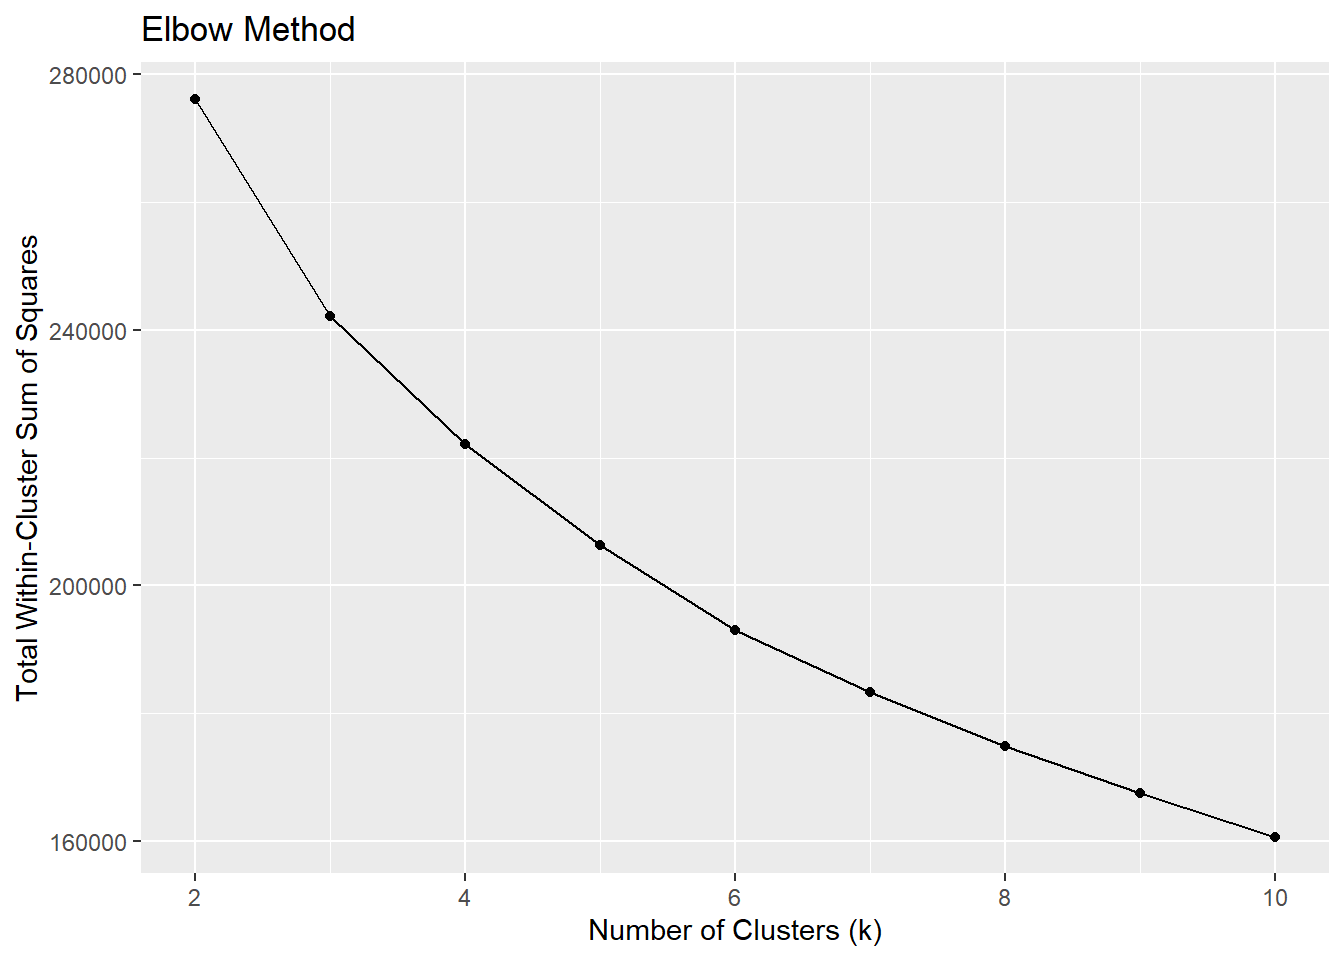
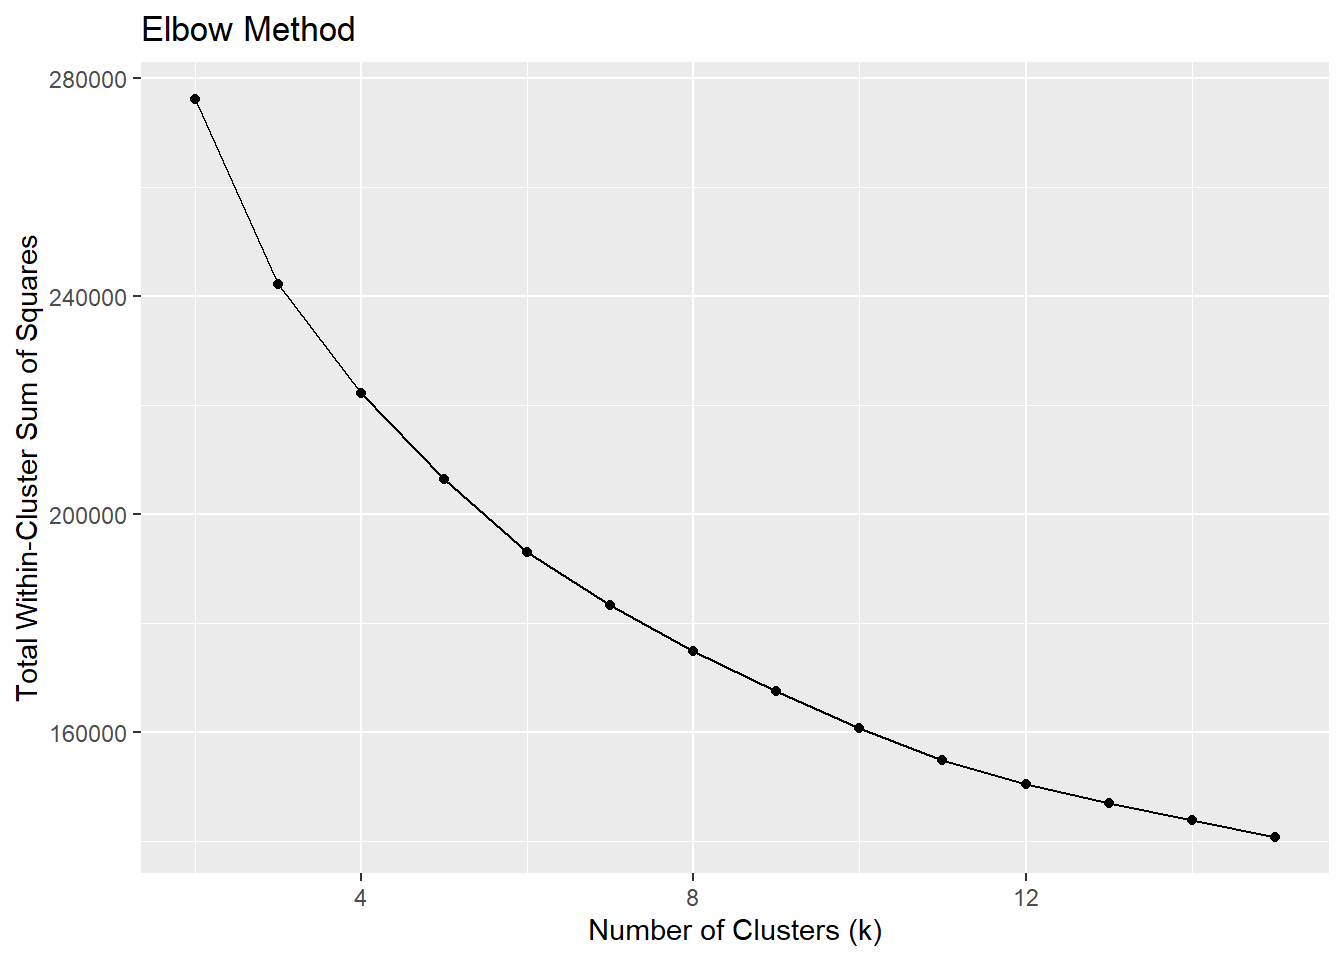
take home ex2 - The Elbow Method chart

diff --git a/docs/Take-Home_Exercise/Take-Home_Exercise02/TE02.html b/docs/Take-Home_Exercise/Take-Home_Exercise02/TE02.html
@@ -302,7 +302,7 @@ pre > code.sourceCode > span > a:first-child::before { text-decoration: underlin
     <div>
     <div class="quarto-title-meta-heading">Modified</div>
     <div class="quarto-title-meta-contents">
-      <p class="date-modified">February 28, 2026</p>
+      <p class="date-modified">March 1, 2026</p>
     </div>
   </div>
     
@@ -679,12 +679,12 @@ $ customer_lifetime_value    &lt;dbl&gt; 312414808, 167022286, 19403711, 3597810
 <div class="cell">
 <div class="code-copy-outer-scaffold"><div class="sourceCode cell-code" id="cb19"><pre class="sourceCode r code-with-copy"><code class="sourceCode r"><span id="cb19-1"><a href="#cb19-1" aria-hidden="true" tabindex="-1"></a><span class="fu">set.seed</span>(<span class="dv">2022</span>)</span>
 <span id="cb19-2"><a href="#cb19-2" aria-hidden="true" tabindex="-1"></a></span>
-<span id="cb19-3"><a href="#cb19-3" aria-hidden="true" tabindex="-1"></a>wss <span class="ot">&lt;-</span> <span class="fu">map_dbl</span>(<span class="dv">2</span><span class="sc">:</span><span class="dv">10</span>, <span class="cf">function</span>(k){</span>
+<span id="cb19-3"><a href="#cb19-3" aria-hidden="true" tabindex="-1"></a>wss <span class="ot">&lt;-</span> <span class="fu">map_dbl</span>(<span class="dv">2</span><span class="sc">:</span><span class="dv">15</span>, <span class="cf">function</span>(k){</span>
 <span id="cb19-4"><a href="#cb19-4" aria-hidden="true" tabindex="-1"></a>  <span class="fu">kmeans</span>(df_scaled, <span class="at">centers =</span> k, <span class="at">nstart =</span> <span class="dv">20</span>)<span class="sc">$</span>tot.withinss</span>
 <span id="cb19-5"><a href="#cb19-5" aria-hidden="true" tabindex="-1"></a>})</span>
 <span id="cb19-6"><a href="#cb19-6" aria-hidden="true" tabindex="-1"></a></span>
 <span id="cb19-7"><a href="#cb19-7" aria-hidden="true" tabindex="-1"></a>elbow_df <span class="ot">&lt;-</span> <span class="fu">tibble</span>(</span>
-<span id="cb19-8"><a href="#cb19-8" aria-hidden="true" tabindex="-1"></a>  <span class="at">k =</span> <span class="dv">2</span><span class="sc">:</span><span class="dv">10</span>,</span>
+<span id="cb19-8"><a href="#cb19-8" aria-hidden="true" tabindex="-1"></a>  <span class="at">k =</span> <span class="dv">2</span><span class="sc">:</span><span class="dv">15</span>,</span>
 <span id="cb19-9"><a href="#cb19-9" aria-hidden="true" tabindex="-1"></a>  <span class="at">wss =</span> wss</span>
 <span id="cb19-10"><a href="#cb19-10" aria-hidden="true" tabindex="-1"></a>)</span>
 <span id="cb19-11"><a href="#cb19-11" aria-hidden="true" tabindex="-1"></a></span>

diff --git a/docs/index.html b/docs/index.html
@@ -696,7 +696,7 @@ Feb 2, 2026
 </div>
 </div></a>
 </div>
-<div class="g-col-1" data-index="1" data-listing-date-sort="1772208000000" data-listing-file-modified-sort="1772275379245" data-listing-date-modified-sort="1772275379000" data-listing-reading-time-sort="5" data-listing-word-count-sort="816">
+<div class="g-col-1" data-index="1" data-listing-date-sort="1772208000000" data-listing-file-modified-sort="1772371725971" data-listing-date-modified-sort="1772371725000" data-listing-reading-time-sort="5" data-listing-word-count-sort="816">
 <a href="./Take-Home_Exercise/Take-Home_Exercise02/TE02.html" class="quarto-grid-link">
 <div class="quarto-grid-item card h-100 card-left">
 <p class="card-img-top"><img src="Take-Home_Exercise\Take-Home_Exercise02\TE02_files\figure-html\unnamed-chunk-12-1.png" style="height: 150px;"  class="thumbnail-image card-img"/></p>
